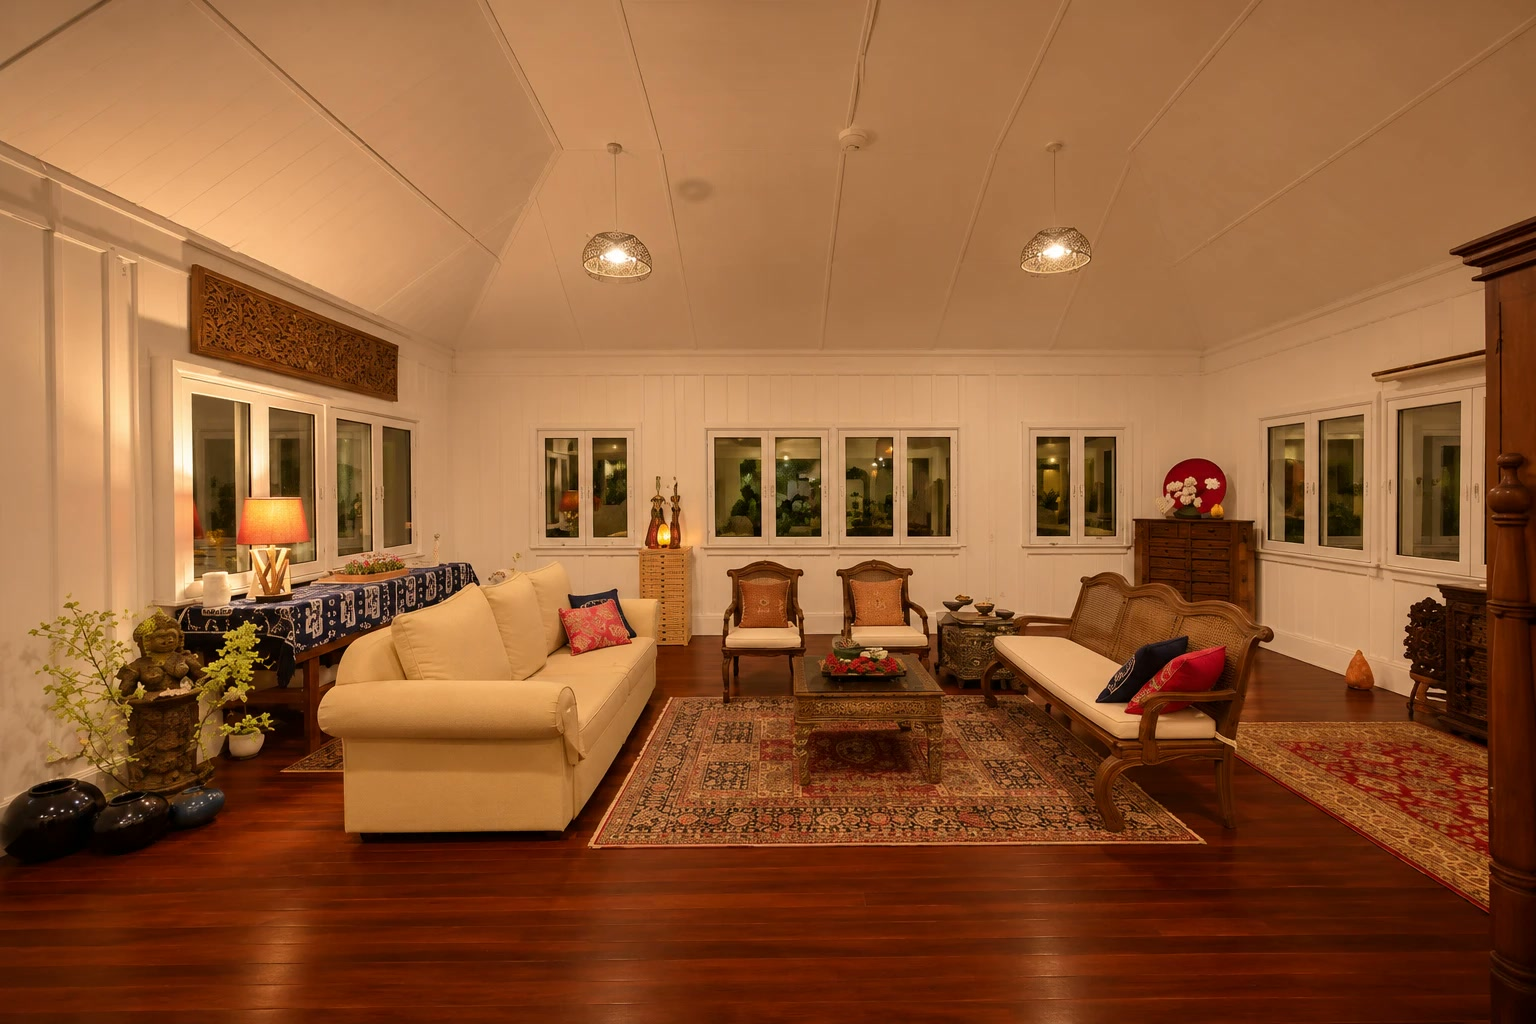
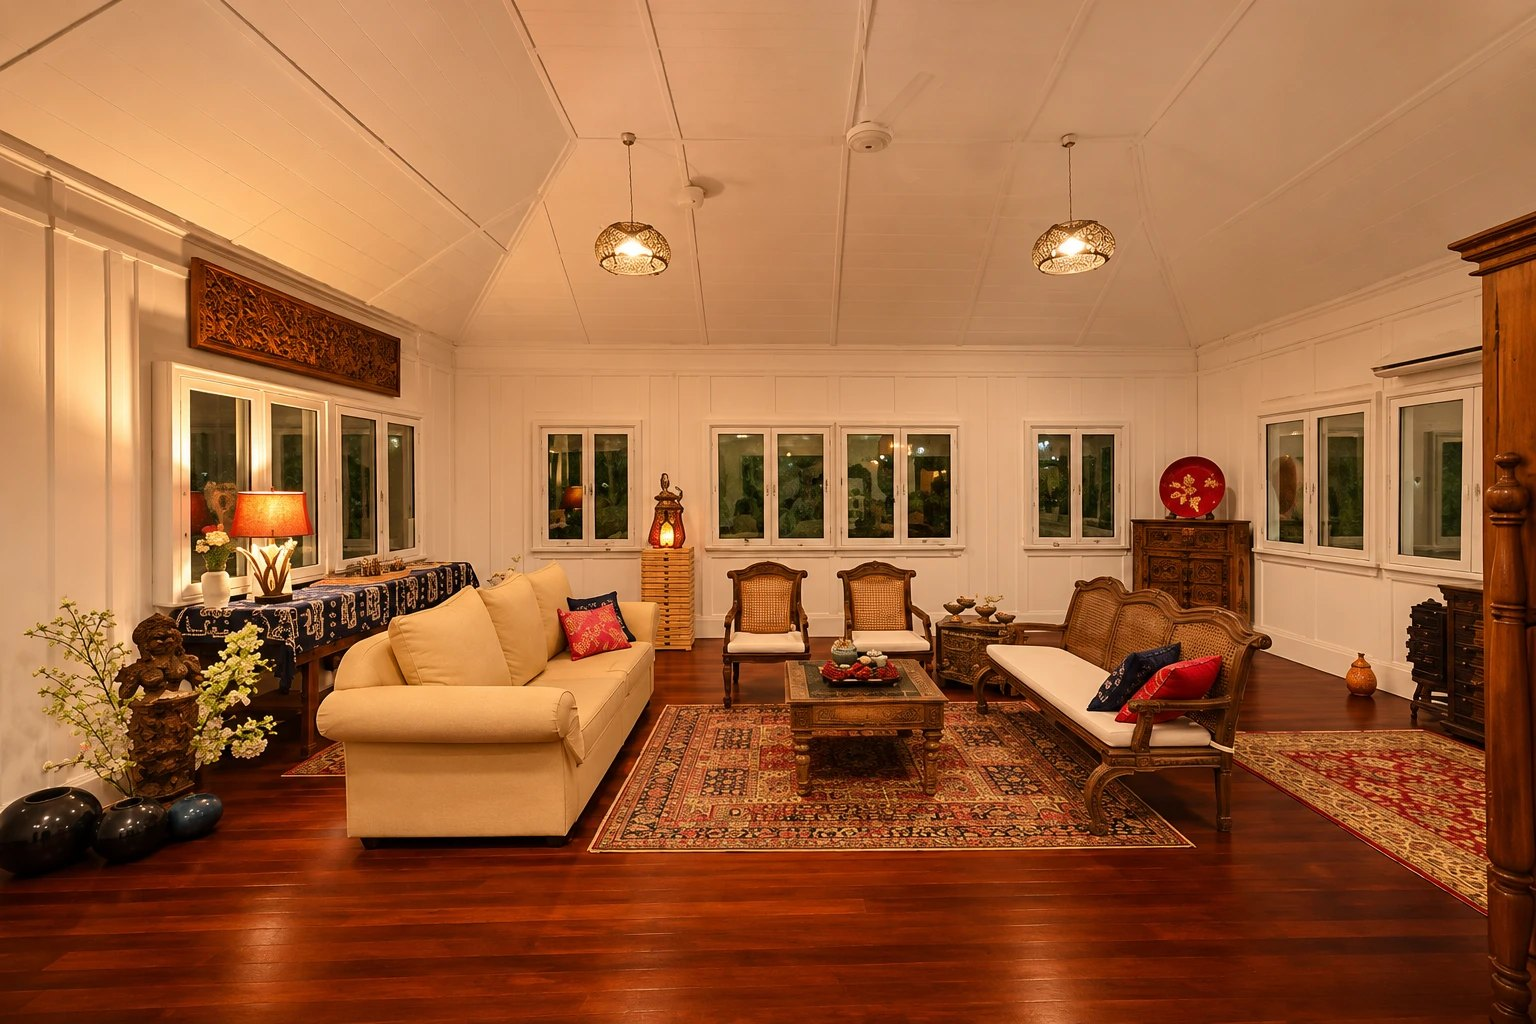
Apply Ian's 23 Nov feedback: 2-week notice, FAQ answers, dish turn, new photos, remove Home class teaser

diff --git a/index.html b/index.html
@@ -369,29 +369,6 @@ a.edition:hover { border-color: rgba(122, 35, 32, .45); transform: translateY(-4
 .card li::before { content: "✦"; font-size: 11px; color: var(--gold); }
 @media (max-width: 900px) { .invest__grid { grid-template-columns: 1fr; } }
 
-/* ══════════════ cooking class teaser ══════════════ */
-.classes { background: var(--cream); overflow: hidden; }
-.classes__grid { display: grid; grid-template-columns: 1fr 1fr; min-height: min(760px, 88vh); }
-.classes__text { display: flex; flex-direction: column; justify-content: center; padding: clamp(70px, 9vw, 120px) clamp(28px, 5vw, 80px) clamp(70px, 9vw, 120px) var(--pad); }
-.classes h2 { margin-top: 18px; font-size: clamp(42px, 4.8vw, 68px); }
-.classes .sub { margin-top: 14px; font-family: var(--serif); font-style: italic; font-size: clamp(20px, 1.8vw, 24px); color: var(--gold); max-width: none; }
-.classes .body { margin-top: 24px; max-width: 50ch; font-size: 16.5px; color: var(--muted); }
-.classes__cta { margin-top: 34px; }
-.classes__photo { position: relative; min-height: 420px; }
-.classes__photo img { position: absolute; inset: 0; width: 100%; height: 100%; object-fit: cover; filter: saturate(.86) sepia(.08); }
-@media (max-width: 900px) {
-  .classes { color: var(--cream); }
-  .classes__grid { grid-template-columns: 1fr; min-height: 0; }
-  .classes__photo { grid-area: 1 / 1; min-height: 0; }
-  .classes__photo::after { content: ""; position: absolute; inset: 0; background: linear-gradient(to top, rgba(25, 17, 11, .9) 0%, rgba(25, 17, 11, .72) 45%, rgba(25, 17, 11, .35) 100%); }
-  .classes__text { grid-area: 1 / 1; position: relative; z-index: 1; min-height: 100svh; padding: 110px var(--pad) 70px; justify-content: flex-end; }
-  .classes .eyebrow { color: var(--gold-2); }
-  .classes h2 { color: var(--cream); }
-  .classes .sub { color: var(--gold-2); }
-  .classes .body { color: rgba(241, 234, 223, .82); }
-  .classes .btn { background: var(--cream); border-color: var(--cream); color: var(--ink); }
-}
-
 /* ══════════════ closing band ══════════════ */
 .cta { background: var(--cream-2); text-align: center; }
 /* the reserve scene: scrolling walks the camera from the living room to the dining table, then the invitation comes out */
@@ -551,7 +528,6 @@ html.preload .hero__copy .rv { opacity: 0 !important; transform: translateY(36px
     <div class="hero__says rv d1">
       <div class="hero__say hero__say--sketch">
         <h1><span>Where Heritage Meets</span> <span>Culinary Curiosity.</span></h1>
-        <p class="hero__sub">Private dining in a 1923 Black &amp; White estate, Sembawang.</p>
       </div>
       <div class="hero__say hero__say--real" aria-hidden="true">
         <p class="hero__h"><span>The Bespoke</span> <span>Dining Experience</span></p>
@@ -582,7 +558,7 @@ html.preload .hero__copy .rv { opacity: 0 !important; transform: translateY(36px
       <article class="dish">
         <div class="dish__name rv"><h2>Hainanese Heritage Pork Chop</h2></div>
         <div class="dish__plate rv"><img src="assets/dishes/pork-chop.webp?v=4" alt="Sliced roast pork with tomato pepper sauce on a black plate" loading="lazy"></div>
-        <div class="dish__text rv"><p>Tender, thick-cut pork finished with a slow-reduced sweet-and-sour pineapple jus.</p></div>
+        <div class="dish__text rv"><p>Tender, thick-cut pork finished with slow-reduced roasted tomato &amp; pepper jam.</p></div>
       </article>
 
       <article class="dish">
@@ -635,7 +611,7 @@ html.preload .hero__copy .rv { opacity: 0 !important; transform: translateY(36px
             <div class="ecard__body"><h3>The Arrival</h3><p>Step off the beaten path into our 1924 colonial sanctuary.</p></div>
           </article>
           <article class="ecard">
-            <img src="assets/experience/living-hall.jpg" alt="The living hall in warm evening light, with a cream sofa, carved wooden chairs and Persian rugs" loading="lazy" style="object-position: 36% 50%">
+            <img src="assets/experience/living-hall.jpg?v=2" alt="The living hall in warm evening light, with a cream sofa, carved wooden chairs and Persian rugs" loading="lazy" style="object-position: 36% 50%">
             <div class="ecard__body"><h3>Pre-Dinner Drinks</h3><p>Unwind in our living hall with handcrafted welcome drinks.</p></div>
           </article>
           <article class="ecard">
@@ -671,20 +647,6 @@ html.preload .hero__copy .rv { opacity: 0 !important; transform: translateY(36px
   </div>
 </section>
 
-<!-- ─────────────── cooking class: words left, the children right; on phones the photo carries the words ─────────────── -->
-<section class="classes" id="classes">
-  <div class="classes__grid">
-    <div class="classes__text">
-      <p class="eyebrow rv">Cooking Class</p>
-      <h2 class="rv d1">Our Sensory Kitchen</h2>
-      <p class="sub rv d2">Empowering Children with Essential Culinary Life Skills</p>
-      <p class="body rv d3">“Our Sensory Kitchen” is a hands-on culinary workshop designed to teach children meal preparation as a vital, empowering life skill. By exploring raw ingredients, kitchen tools, and flavour building, young chefs develop fine motor control, confidence, and independence in the kitchen.</p>
-      <div class="classes__cta rv d4"><a class="btn" href="classes.html">Discover Our Sensory Kitchen <svg viewBox="0 0 24 24" fill="none" stroke="currentColor" stroke-width="1.5"><path d="M5 12h14M13 6l6 6-6 6"/></svg></a></div>
-    </div>
-    <div class="classes__photo rv d1"><img src="assets/classes/philosophy.jpg?v=2" alt="Children in chef hats working at bowls along the long wooden table" loading="lazy"></div>
-  </div>
-</section>
-
 <!-- ─────────────── closing: reserve ─────────────── -->
 <section class="tour" id="reserve">
  <div class="tour__track" id="tourTrack">
@@ -693,7 +655,7 @@ html.preload .hero__copy .rv { opacity: 0 !important; transform: translateY(36px
     <div class="tour__shade" aria-hidden="true"></div>
     <div class="inner tour__words">
       <h2>Reserve your <em>private sitting.</em></h2>
-      <p class="lead">Submit your preferred date and group size via WhatsApp, at least 2 weeks in advance.</p>
+      <p class="lead">Submit your preferred date and group size via WhatsApp, minimum 2 weeks in advance.</p>
       <div class="cta__btns"><a class="btn" href="contact.html#book" data-book>Book Now <svg viewBox="0 0 24 24" fill="none" stroke="currentColor" stroke-width="1.5"><path d="M5 12h14M13 6l6 6-6 6"/></svg></a></div>
     </div>
   </div>
@@ -934,8 +896,7 @@ if (estate) {
   if (!track) return;
   const dishes = [...track.querySelectorAll(".dish")];
   const N = dishes.length;
-  const TURN = 140;
-  const ROLL = 170;                                  // degrees a plate turns while rolling the full arc                                  // degrees the plate turns per dish
+  const TURN = 140;                                  // degrees the plate turns per dish
   const still = matchMedia("(prefers-reduced-motion: reduce)").matches;
   const clamp01 = v => Math.min(1, Math.max(0, v));
   const smooth = t => { t = clamp01(t); return t * t * (3 - 2 * t); };
@@ -948,33 +909,15 @@ if (estate) {
     const k = Math.min(N - 2, Math.floor(raw));
     return k + smooth((raw - k - .25) / .5);
   }
-  // the last step (into the claypot) does not turn: the plates ride round a big wheel whose top is the
-  // centre of the screen, so the plate before it rolls off to the left and the claypot rolls in from the right
-  function wheel(theta) {
-    const wide = innerWidth > 900, R = innerWidth * (wide ? .9 : 1.4);
-    return `translate(${(R * Math.sin(theta)).toFixed(1)}px, ${(R * (1 - Math.cos(theta))).toFixed(1)}px)`;
-  }
   function paint(p) {
     const at = pos(p), k = Math.floor(at), f = at - k;
-    const rolling = k === N - 2 && f > 0;                     // between the last plate and the claypot
-    const SWING = Math.asin(innerWidth > 900 ? .55 / .9 : .9 / 1.4);
     dishes.forEach((d, i) => {
       const [name, plate, text] = d.children;
-      let spin;
-      if (rolling && (i === k || i === k + 1)) {
-        // rolling round the arc: the plate turns like a wheel, the one leaving turns away, the claypot turns into place
-        const theta = i === k ? -f * SWING : (1 - f) * SWING;
-        plate.style.transform = wheel(theta);
-        plate.style.opacity = (1 - smooth((Math.abs(theta) / SWING - .35) / .65)).toFixed(3);
-        spin = theta / SWING * ROLL;
-      } else {
-        plate.style.transform = "";
-        // the dish on the plate now stays put underneath; the next one fades in over it as the plate turns
-        plate.style.opacity = i === k ? 1 : i === k + 1 ? smooth(f * 1.15 - .08).toFixed(3) : 0;
-        // each dish sits upright, exactly as plated, when it is the one showing; it turns in and out around that
-        const turns = i === N - 1 ? 0 : i === N - 2 ? Math.min(0, at - i) : at - i;
-        spin = turns * TURN;
-      }
+      plate.style.transform = "";
+      // the dish on the plate now stays put underneath; the next one fades in over it as the plate turns
+      plate.style.opacity = i === k ? 1 : i === k + 1 ? smooth(f * 1.15 - .08).toFixed(3) : 0;
+      // every dish, the claypot included, sits upright when it is the one showing and turns in and out around that
+      const spin = (at - i) * TURN;
       plate.firstElementChild.style.transform = `rotate(${spin.toFixed(2)}deg)`;
       const t = clamp01(1 - Math.abs(at - i) * 2.4);
       name.style.opacity = text.style.opacity = t.toFixed(3);

diff --git a/dining.html b/dining.html
@@ -360,7 +360,7 @@ details p { padding: 0 0 24px; color: var(--muted); max-width: 62ch; }
         <p class="rv d1" style="color:var(--muted)">Because every menu is fully bespoke, we seamlessly accommodate vegetarian, pescatarian, gluten-free, or specific dietary requirements with advance consultation.</p>
       </div>
       <div class="how__grid">
-        <div class="how__card rv"><div class="num">Step 1</div><h3>The Culinary Discovery</h3><p>Upon booking, we guide you through a preference questionnaire to understand your palate, dietary nuances, occasion, and preferred budget. We recommend at least 2 weeks in advance to avoid disappointment.</p></div>
+        <div class="how__card rv"><div class="num">Step 1</div><h3>The Culinary Discovery</h3><p>Upon booking, we guide you through a preference questionnaire to understand your palate, dietary nuances, occasion, and preferred budget. We recommend a minimum of 2 weeks in advance to avoid disappointment.</p></div>
         <div class="how__card rv d1"><div class="num">Step 2</div><h3>Artisanal Sourcing</h3><p>We personally select the week's finest seasonal seafood, prime meats, and local botanicals exclusively for your booking.</p></div>
         <div class="how__card rv d2"><div class="num">Step 3</div><h3>The Omakase Unveiling</h3><p>Arrive to a bespoke menu tailored precisely around your group's tastes.</p></div>
       </div>
@@ -390,7 +390,7 @@ details p { padding: 0 0 24px; color: var(--muted); max-width: 62ch; }
   <div class="inner">
     <div class="facts">
       <div class="fact rv d1"><svg class="fact__ic" viewBox="0 0 32 32" fill="none" stroke="currentColor" stroke-width="1.4" stroke-linecap="round" stroke-linejoin="round" aria-hidden="true"><circle cx="16" cy="10.5" r="3.6"/><path d="M9.5 25v-2.2a6.5 6.5 0 0 1 13 0V25"/><circle cx="7.6" cy="13" r="2.7"/><path d="M2.5 24v-1.4a5 5 0 0 1 6.4-4.8"/><circle cx="24.4" cy="13" r="2.7"/><path d="M29.5 24v-1.4a5 5 0 0 0-6.4-4.8"/></svg><div class="k">Group Size</div><div class="v">6–10 guests</div><div class="s">The entire estate hall, exclusively yours</div></div>
-      <div class="fact rv d2"><svg class="fact__ic" viewBox="0 0 32 32" fill="none" stroke="currentColor" stroke-width="1.4" stroke-linecap="round" stroke-linejoin="round" aria-hidden="true"><rect x="4.5" y="7" width="23" height="20" rx="2.5"/><path d="M4.5 13h23M10.5 4v5M21.5 4v5"/><path d="M10 18h2M15 18h2M20 18h2M10 22h2M15 22h2"/></svg><div class="k">Operating Days</div><div class="v">Wed – Sun</div><div class="s">By at least 2 weeks advance reservation only</div></div>
+      <div class="fact rv d2"><svg class="fact__ic" viewBox="0 0 32 32" fill="none" stroke="currentColor" stroke-width="1.4" stroke-linecap="round" stroke-linejoin="round" aria-hidden="true"><rect x="4.5" y="7" width="23" height="20" rx="2.5"/><path d="M4.5 13h23M10.5 4v5M21.5 4v5"/><path d="M10 18h2M15 18h2M20 18h2M10 22h2M15 22h2"/></svg><div class="k">Operating Days</div><div class="v">Wed – Sun</div><div class="s">Minimum 2 weeks advance reservation only</div></div>
       <div class="fact rv d3"><svg class="fact__ic" viewBox="0 0 32 32" fill="none" stroke="currentColor" stroke-width="1.4" stroke-linecap="round" stroke-linejoin="round" aria-hidden="true"><circle cx="16" cy="16" r="11.5"/><path d="M16 9.5V16l4.5 3"/></svg><div class="k">Time</div><div class="v">7:00 PM til late</div><div class="s">One sitting per evening</div></div>
     </div>
   </div>
@@ -416,7 +416,7 @@ details p { padding: 0 0 24px; color: var(--muted); max-width: 62ch; }
       <div>
         <h2 class="rv d1">Reservation Process</h2>
         <ol class="ol">
-          <li class="rv"><div><strong>Inquire</strong><span>Submit your preferred date and group size via our concierge page (at least 2 weeks in advance).</span></div></li>
+          <li class="rv"><div><strong>Inquire</strong><span>Submit your preferred date and group size via our concierge page (minimum 2 weeks in advance).</span></div></li>
           <li class="rv d1"><div><strong>Consultation</strong><span>Complete our brief Culinary Discovery Questionnaire.</span></div></li>
           <li class="rv d2"><div><strong>Confirmation</strong><span>A full non-refundable payment secures your exclusive evening on the calendar.</span></div></li>
         </ol>
@@ -436,7 +436,8 @@ details p { padding: 0 0 24px; color: var(--muted); max-width: 62ch; }
       <div>
         <details class="rv" open><summary>May we bring our personal wine collection?<i></i></summary><p>Absolutely. We offer complimentary corkage for the 1st bottle.</p></details>
         <details class="rv d1"><summary>Is private parking available?<i></i></summary><p>Yes, 2 private parking spaces are available within our estate grounds. More parking spaces are available further down the road.</p></details>
-        <details class="rv d2"><summary>May we bring our pets?<i></i></summary><p>Yes, we are pet-friendly. We are pawparents to an adopted dog and cat ourselves, so your pets are welcome to join you.</p></details>
+        <details class="rv d2"><summary>May we request rare or premium ingredients?<i></i></summary><p>Certainly. During your menu discovery consultation, we can incorporate specific luxury delicacies into your customized menu.</p></details>
+        <details class="rv d3"><summary>Are pets welcome at The Dinerworkshop?<i></i></summary><p>Yes, absolutely! As proud pawparents to a rescued dog and cat, our home and estate grounds are warmly open to your well-behaved furry family members. Please let us know in advance so we can ensure a comfortable setup for them as well.</p></details>
       </div>
     </div>
   </div>
@@ -448,7 +449,7 @@ details p { padding: 0 0 24px; color: var(--muted); max-width: 62ch; }
     <div class="contact__grid">
       <div>
         <h2 class="rv">Reserve your <em>private sitting.</em></h2>
-        <p class="lead rv d1">Submit your preferred date and group size via WhatsApp, at least 2 weeks in advance.</p>
+        <p class="lead rv d1">Submit your preferred date and group size via WhatsApp, minimum 2 weeks in advance.</p>
         <div class="contact__cta rv d2">
           <a class="btn" href="#book" data-book>Reserve Your Private Sitting <svg viewBox="0 0 24 24" fill="none" stroke="currentColor" stroke-width="1.5"><path d="M5 12h14M13 6l6 6-6 6"/></svg></a>
           <a class="btn btn--gold" href="https://wa.me/6580710506" target="_blank" rel="noopener">WhatsApp +65 8071 0506</a>

diff --git a/contact.html b/contact.html
@@ -210,7 +210,7 @@ section { position: relative; }
   <div class="inner ct-top__grid">
     <div class="ct-top__text">
       <h1 class="rv">Concierge &amp; Contact</h1>
-      <p class="lead rv d1">Submit your preferred date and group size via our concierge page or WhatsApp (at least 2 weeks in advance).</p>
+      <p class="lead rv d1">Submit your preferred date and group size via our concierge page or WhatsApp (minimum 2 weeks in advance).</p>
       <p class="lead rv d2">Ian will be in touch personally to discuss a suitable evening.</p>
     </div>
     <div class="ct-top__book rv d1" id="book"><div id="bookInline"></div></div>
@@ -224,7 +224,7 @@ section { position: relative; }
       <div class="ct-info__item rv"><p class="ct-label">Location</p><p class="v">17 Admiralty Road East S759975 (Near Sembawang Park)</p></div>
       <div class="ct-info__item rv d1"><p class="ct-label">Phone</p><p class="v"><a href="tel:+6580710506">+65 8071 0506</a></p></div>
       <div class="ct-info__item rv d2"><p class="ct-label">Email</p><p class="v"><a href="mailto:thedinerworkshop@gmail.com">thedinerworkshop@gmail.com</a></p></div>
-      <div class="ct-info__item rv"><p class="ct-label">Operating Days</p><p class="v">Wednesday through Sunday (By at least 2 weeks advance reservation only)</p></div>
+      <div class="ct-info__item rv"><p class="ct-label">Operating Days</p><p class="v">Wednesday through Sunday (Minimum 2 weeks advance reservation only)</p></div>
       <div class="ct-info__item rv d1"><p class="ct-label">Time</p><p class="v">7:00 PM til late (One sitting per evening)</p></div>
       <div class="ct-info__item rv d2"><p class="ct-label">Pet Policy</p><p class="v">Proudly Pet-Friendly (Pawparents to a rescued dog and cat)</p></div>
     </div>

diff --git a/about.html b/about.html
@@ -383,7 +383,7 @@ section { position: relative; }
 
       <article class="ch ch--l">
         <span class="ch__dot" aria-hidden="true"></span>
-        <div class="ch__img"><img src="assets/history/molecular-biology.jpg" alt="A pipette dropping liquid into rows of sample tubes" loading="lazy"></div>
+        <div class="ch__img"><img src="assets/history/molecular-biology.jpg?v=2" alt="Chef Ian in a maroon apron plating a dish with a spoon at the kitchen counter" loading="lazy"></div>
         <div class="ch__text"><h3>The Disciplined World of Molecular Biology</h3><p>Combining a deep reverence for traditional flavour extraction with scientific precision over temperature, texture, and timing, Ian crafts bespoke menus that honour heritage while surprising the modern palate.</p></div>
       </article>
 
@@ -408,7 +408,7 @@ section { position: relative; }
     <div class="contact__grid">
       <div>
         <h2 class="rv">Reserve your <em>private sitting.</em></h2>
-        <p class="lead rv d1">Submit your preferred date and group size via WhatsApp, at least 2 weeks in advance.</p>
+        <p class="lead rv d1">Submit your preferred date and group size via WhatsApp, minimum 2 weeks in advance.</p>
         <div class="contact__cta rv d2">
           <a class="btn" href="index.html#enquire" data-book>Reserve Your Private Sitting <svg viewBox="0 0 24 24" fill="none" stroke="currentColor" stroke-width="1.5"><path d="M5 12h14M13 6l6 6-6 6"/></svg></a>
           <a class="btn btn--gold" href="https://wa.me/6580710506" target="_blank" rel="noopener">WhatsApp +65 8071 0506</a>
